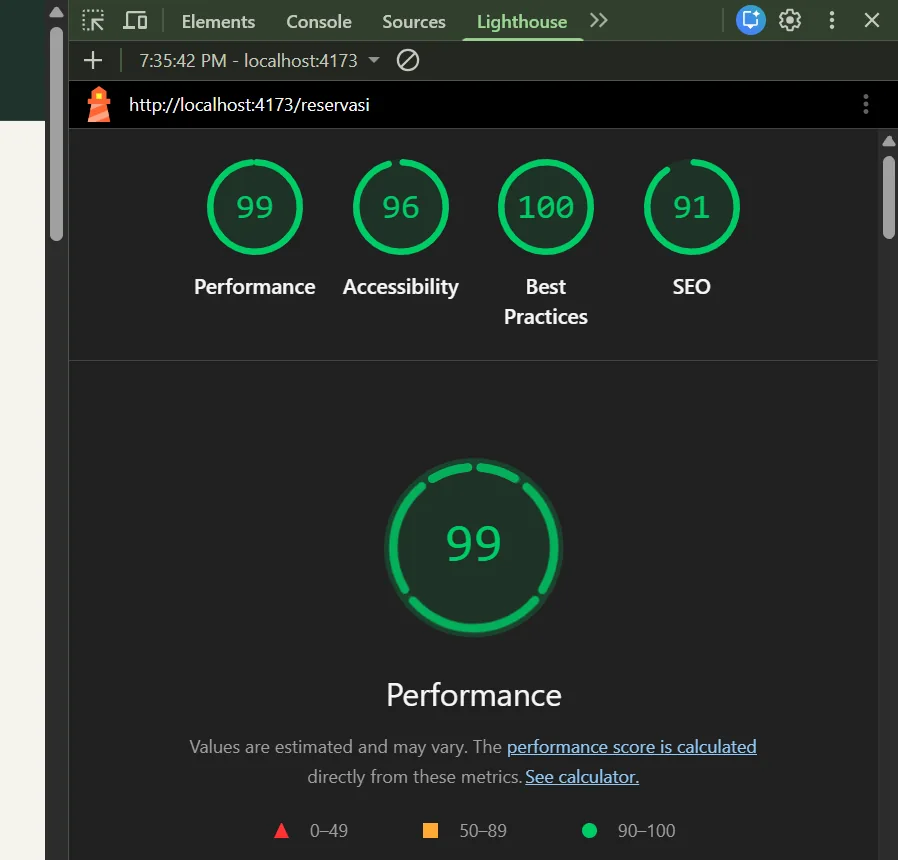
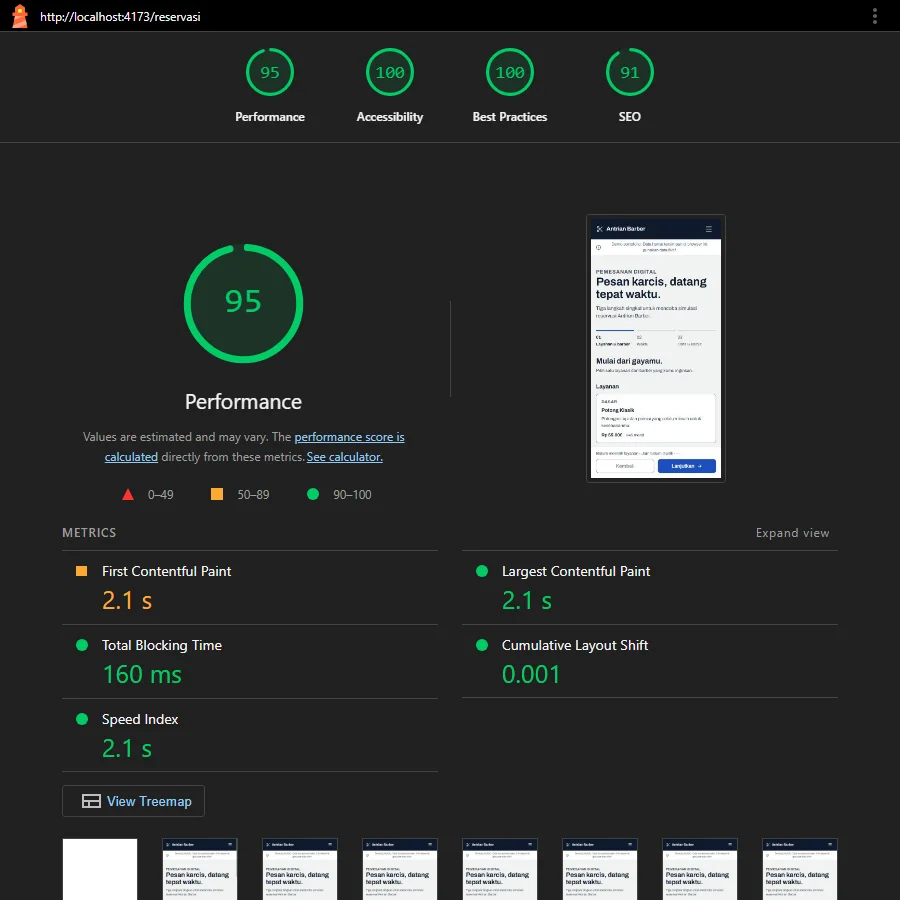
perf: host hero photo locally as webp and re-measure Lighthouse after Sprint 5
The hero photo was loaded from Unsplash, which put mobile LCP at ~4.7 s and
Home mobile Performance at 80. It is now served as 640w/900w webp from
public/images (478 KB -> 50-89 KB) with fetchpriority=high and explicit
dimensions; mobile Performance is 95 (median of 3 runs).

Lighthouse 12.6.1, local production preview, 3 runs per case, medians:
Home desktop 100/100/100/92, mobile 95/100/100/92;
Booking desktop 100/100/100/91, mobile 97/100/100/91.

Update frontend README, case study, QA report, ARCHITECTURE note and
design-system MASTER status, and regenerate the Lighthouse screenshots.

diff --git a/frontend/src/components/Hero.tsx b/frontend/src/components/Hero.tsx
@@ -1,9 +1,9 @@
 import { ArrowDownRight, ArrowUpRight, Star } from 'lucide-react';
 import { useState } from 'react';
 import { Link } from 'react-router';
-const heroPhoto = 'https://images.unsplash.com/photo-1599351431202-1e0f0137899a?auto=format&fit=crop&w=1250&q=85';
+// Foto hero (Unsplash, 1599351431202-1e0f0137899a) disimpan lokal sebagai webp agar tidak bergantung host luar.
 export default function Hero() {
-  const [src, setSrc] = useState(heroPhoto);
+  const [failed, setFailed] = useState(false);
   return <section className="hero-section" id="beranda" aria-labelledby="hero-title">
     <div className="container-shell hero-grid">
       <div className="hero-copy">
@@ -14,7 +14,9 @@ export default function Hero() {
         <div className="hero-caption"><Star size={12} fill="currentColor"/> PROYEK DEMO <span className="hero-separator"/> PENGALAMAN BARBER DIGITAL</div>
       </div>
       <div className="hero-photo-box">
-        <img src={src} alt="Suasana proses merapikan potongan rambut di barbershop" onError={() => setSrc('/images/photo-fallback.svg')}/>
+        {failed
+          ? <img src="/images/photo-fallback.svg" alt="Suasana proses merapikan potongan rambut di barbershop"/>
+          : <img src="/images/hero-900.webp" srcSet="/images/hero-640.webp 640w, /images/hero-900.webp 900w" sizes="(max-width: 760px) 100vw, 50vw" width={900} height={1349} fetchPriority="high" alt="Suasana proses merapikan potongan rambut di barbershop" onError={() => setFailed(true)}/>}
         <div className="hero-photo-overlay"/>
         <div className="photo-footer"><span>01 / KERAJINAN</span><span>TAMPIL LEBIH TAJAM.</span></div>
       </div>

diff --git a/design-system/MASTER.md b/design-system/MASTER.md
@@ -1,6 +1,6 @@
 # Sistem Desain — Antrian Barber (Sprint 5)
 
-**Status: DISETUJUI (arah A "Karcis" dan semua rekomendasi §10). Implementasi berjalan per langkah §8: 5a sampai 5e dikerjakan. Sisa: uji aksesibilitas otomatis (axe) dan Lighthouse ulang, lihat §8 5e.**
+**Status: DISETUJUI (arah A "Karcis" dan semua rekomendasi §10). Implementasi berjalan per langkah §8: 5a sampai 5e dikerjakan. Axe dan Lighthouse ulang sudah selesai (lihat §8 5e).**
 Dokumen ini adalah sumber kebenaran tunggal untuk perombakan UI/UX. Setiap langkah implementasi mengacu ke sini. Bukti audit ada di [`audit/before/`](audit/before/) (10 tangkapan layar + `metrics.json`), dan papan pratinjau visual ada di [`preview.html`](preview.html).
 
 Cakupan: halaman **Booking pelanggan** dan **area staf** (login, antrean, laporan, jadwal), ditambah *shell* bersama (header/footer). Backend tidak berubah.
@@ -350,7 +350,7 @@ Tiap butir diperiksa otomatis atau dengan skrip pengukuran yang sama dengan audi
 | Galat formulir | Inline + ringkasan terfokus; `role=alert` | inline saja, 10–11px |
 | Bahasa | 0 string Inggris di antarmuka pelanggan; 0 istilah teknis | 12+ string Inggris |
 | Token | 0 hex di komponen; 0 `!important` baru; 1 set breakpoint | 262 hex; 2 `!important` |
-| Performa | Font self-host `font-display: swap`; Lighthouse Booking tidak turun dari baseline v2.1e (99/96/100/91) | baseline ada |
+| Performa | Font self-host `font-display: swap`; Lighthouse Booking tidak turun dari baseline v2.1e (99/96/100/91) | hijau: Desktop 100/100/100/91, Mobile 97/100/100/91 (15 Nov 2026) |
 
 ---
 
@@ -364,7 +364,7 @@ Prinsip: setiap langkah kecil, diverifikasi, dan **tes e2e diperbarui di langkah
 | **5b Shell pelanggan** ✅ | Header/Footer, strip demo tipis, bahasa Indonesia, galat manusiawi, `<h1>` | Metrik A6, A7, A8 terpenuhi; e2e navigasi lulus. **Hasil:** A6: tepat satu `<h1>` di 8 rute pelanggan dan urutan judul tanpa lompat (`shell.spec.ts`); halaman yang judul visualnya masih `<h2>` memakai `<h1 class="sr-only">` sebagai jembatan sampai 5c/5e. A7 (shell dan halaman Booking): 0 label Inggris di header, footer, strip, Booking, FAQ, dan 404. A8: galat baca (katalog, barber, jam) kini kalimat Indonesia biasa (misalnya "Tidak dapat terhubung ke server"), detail teknis hanya ke console (`api/loadError.ts`); 0 istilah teknis (PostgreSQL, FastAPI, HTTP, "Failed to fetch") di teks pelanggan. Header, strip 36px, dan footer memakai komponen `ds-`. **Sengaja ditunda:** teks Inggris pada isi Beranda/Hero, Layanan, Barber, Inspirasi, dan Tentang (5e, bersama restyle token); struktur wizard dan banner demo besar di halaman Booking (5c); kosakata "tiket" menjadi "karcis" (5c); lebar kontainer shell mengikuti `container-shell` lama (1180px) sampai 5e menyatukannya ke 1120px. **Verifikasi:** 63 tes Playwright lulus (baseline 19 menjadi 29 dengan 10 tes shell baru, staf 14, UI 12); kontras 32/32; lint 7 (= baseline); kit dev-only tidak ikut build produksi; satu berkas font latin 88 KB diunduh per halaman. |
 | **5c Wizard booking** ✅ | Pecah `Booking.tsx` (A12) menjadi bagian kecil; DayStrip, SlotPicker, BarberChoice, ServiceChoice, karcis langsung + bilah bawah ponsel, ringkasan galat, karcis tercetak | Metrik A4–A6, A9–A11 terpenuhi di 390px dan 1440px; e2e booking diperbarui **dan** lulus; alur demo dan API sama-sama diuji. **Hasil:** wizard 3 langkah (Keputusan 2): Layanan & barber → Waktu → Data & karcis. Bagian baru di `src/components/booking/` (DayStrip, SlotPicker Pagi/Siang/Sore dengan teks "Penuh", ServiceCard, BarberCard, KarcisPanel memakai `Ticket` ds, `booking.css` tanpa hex); `Booking.tsx` tinggal wadah dengan logika demo dan API. Ringkasan galat memuat daftar isian yang bisa difokus; galat memakai `ds-error` dan `Notice`. Satu `<h1>` (sr-only jembatan 5b dihapus). Pengukuran `/reservasi` mode API dan demo pada 390 dan 1440px: 0 teks di bawah 13px, 0 kontrol di bawah 44px, 1 h1, 0 overflow horizontal. E2E: 29 + 2 + 3 + 3 + 14 + 12 lulus (tes booking dan produksi diperbarui ke tiga langkah dan kosakata "karcis"). Kontras 32/32; lint 5 peringatan (sebelumnya 7). **Belum:** animasi karcis tercetak belum dipasang; pemilih barber dan layanan masih `aria-pressed` (bukan `radio`) agar kontrak tes tetap; CSS lama `.wizard-*` dan riwayat (`booking-item`) masih ada dan dibersihkan di 5e; dialog karcis demo lama belum dipindah ke komponen ds; tombol "Batalkan tiket" dan "Lupakan lokal" belum diganti kata.
 | **5d Area staf** ✅ | StaffRail/TabBar, NowPanel, QueueRow, laporan (grafik + tabel pengganti), WeekGrid | Metrik A5, A13, A14 terpenuhi; 13+ e2e staf lulus; bukti "Sekarang" bekerja untuk admin dan barber. **Hasil:** navigasi kiri (rail, ≥960px) dan bilah tab bawah (<960px) menggantikan tiga tombol di kepala halaman (`StaffNav`); `NowPanel` "Sekarang" per barber diturunkan dari antrean yang sudah dimuat (tanpa endpoint baru), tombolnya diberi awalan "Sekarang:" agar tidak bentrok dengan aksi di baris antrean; `QueueRow` memakai `StatusBadge` ds; laporan memakai grafik kolom dengan nilai langsung dan tabel dalam `<details>`, tabel menjadi kartu di ponsel; jadwal memakai tombol 44px. `staff.css` ditulis ulang dengan `var(--…)` saja. Pengukuran (mode API, data mock, 390 dan 1440px, halaman Antrean, Laporan, Jadwal): 0 teks di bawah 13px, 0 kontrol di bawah 44px, 1 h1, 0 overflow horizontal. E2E staf 14/14; seluruh suite lain tetap lulus (29 + 2 + 3 + 3 + 12). Kontras 32/32; lint 5 peringatan. **Belum:** tab status "Perlu dikonfirmasi" (filter) dari wireframe 5.3 belum dibuat, ringkasan status tetap berupa chip; tabel laporan belum bisa diurutkan (`aria-sort`); grafik jam hanya menampilkan jam yang punya reservasi, bukan rentang 08–21; halaman login belum didesain ulang khusus (ikut token lewat `staff.css`); tombol "Keluar" tetap di kepala halaman, belum di dasar rail.
-| **5e Penyelarasan dan QA** ✅ (dengan catatan) | Halaman lain (Beranda, Layanan, Barber, Inspirasi, Tentang, FAQ) ikut token (warna/tipografi, tanpa mengubah tata letak); hapus CSS lama yang sudah tidak dipakai; pengukuran ulang seluruh §7; tangkapan **sesudah** vs **sebelum**; perbarui README dan studi kasus | Semua baris §7 hijau atau ditandai jujur "belum"; 0 CSS yatim. **Hasil:** (1) Warna hex lama (±280 nilai) dipetakan ke token berdasarkan kecerahan dan rona; CSS pelanggan kini 0 nilai mentah. Judul memakai Archivo (`--font-ds`), bukan Georgia. (2) Lencana "EST. AB STUDIO" dan pita slogan dihapus (keputusan 6). (3) Kontras di-audit per elemen pada 8 rute: tiga teks diperbaiki (caption hero, label kartu layanan unggulan, label tim pada gradien); 4 temuan sisa berasal dari monogram di atas gradien yang tidak bisa dibaca audit, dan sudah dicek visual. (4) Kontrol di bawah 44px dinaikkan (tombol layanan, filter galeri, tautan "Pilih barber ini" dan "Coba gaya ini", tautan CTA). (5) CSS yatim: 130+ selector dihapus dengan pemindai berbasis kelas (sumber TS/TSX sebagai acuan, template `team-${tone}` dikenali); file `src/App.css` yang berisi komponen JSX dan tidak dipakai dihapus. (6) Teks Inggris di Beranda, Layanan, Barber, Inspirasi, Tentang diterjemahkan; nama layanan "Potong Klasik", "Potong & Cuci", "Rapikan Jenggot" (tes ikut diperbarui); "Fade" dan "Taper" dipertahankan sebagai istilah barbershop. **Pengukuran sesudah** (`design-system/audit/after/metrics.txt`, 320/390/768/1440px, 8 rute): h1 tepat 1, overflow 0, teks <13px 0, kontrol <44px 0 pada 320–768 dan 390; di 1440 tersisa 1 kategori: tombol "Ambil antrean" di header 40px (mode desktop, diizinkan §4). E2E: 29 + 2 + 3 + 3 + 14 + 12 lulus; kontras token 32/32; lint 5 peringatan. **Axe (keputusan 7):** `@axe-core/playwright` terpasang sebagai devDependency; `npm run e2e:a11y` memindai 7 rute pelanggan dan lulus untuk pelanggaran serius dan kritis (WCAG 2A/2AA). Pelanggaran berdampak sedang dan ringan belum dihitung dalam gerbang ini. **Belum:** (b) Lighthouse belum diukur ulang, baseline v2.1e 99/96/100/91 belum dibandingkan; (c) fokus dan navigasi keyboard di halaman lama belum diukur; (d) halaman login staf belum didesain ulang khusus; (e) tangkapan layar "sesudah" hanya di 1440 dan 390 dan tidak diberi bingkai perbandingan; (f) README dan studi kasus sudah diperbarui (`frontend/README.md`, `frontend/docs/PORTFOLIO_CASE_STUDY.md`); Lighthouse di kedua dokumen tetap angka v2.1e dan diberi catatan. |
+| **5e Penyelarasan dan QA** ✅ (dengan catatan) | Halaman lain (Beranda, Layanan, Barber, Inspirasi, Tentang, FAQ) ikut token (warna/tipografi, tanpa mengubah tata letak); hapus CSS lama yang sudah tidak dipakai; pengukuran ulang seluruh §7; tangkapan **sesudah** vs **sebelum**; perbarui README dan studi kasus | Semua baris §7 hijau atau ditandai jujur "belum"; 0 CSS yatim. **Hasil:** (1) Warna hex lama (±280 nilai) dipetakan ke token berdasarkan kecerahan dan rona; CSS pelanggan kini 0 nilai mentah. Judul memakai Archivo (`--font-ds`), bukan Georgia. (2) Lencana "EST. AB STUDIO" dan pita slogan dihapus (keputusan 6). (3) Kontras di-audit per elemen pada 8 rute: tiga teks diperbaiki (caption hero, label kartu layanan unggulan, label tim pada gradien); 4 temuan sisa berasal dari monogram di atas gradien yang tidak bisa dibaca audit, dan sudah dicek visual. (4) Kontrol di bawah 44px dinaikkan (tombol layanan, filter galeri, tautan "Pilih barber ini" dan "Coba gaya ini", tautan CTA). (5) CSS yatim: 130+ selector dihapus dengan pemindai berbasis kelas (sumber TS/TSX sebagai acuan, template `team-${tone}` dikenali); file `src/App.css` yang berisi komponen JSX dan tidak dipakai dihapus. (6) Teks Inggris di Beranda, Layanan, Barber, Inspirasi, Tentang diterjemahkan; nama layanan "Potong Klasik", "Potong & Cuci", "Rapikan Jenggot" (tes ikut diperbarui); "Fade" dan "Taper" dipertahankan sebagai istilah barbershop. **Pengukuran sesudah** (`design-system/audit/after/metrics.txt`, 320/390/768/1440px, 8 rute): h1 tepat 1, overflow 0, teks <13px 0, kontrol <44px 0 pada 320–768 dan 390; di 1440 tersisa 1 kategori: tombol "Ambil antrean" di header 40px (mode desktop, diizinkan §4). E2E: 29 + 2 + 3 + 3 + 14 + 12 lulus; kontras token 32/32; lint 5 peringatan. **Axe (keputusan 7):** `@axe-core/playwright` terpasang sebagai devDependency; `npm run e2e:a11y` memindai 7 rute pelanggan dan lulus untuk pelanggaran serius dan kritis (WCAG 2A/2AA). Pelanggaran berdampak sedang dan ringan belum dihitung dalam gerbang ini. **Belum:** (b) ~~Lighthouse belum diukur ulang~~ **selesai 15 November 2026** (Lighthouse 12.6.1, build produksi lokal, median 3 jalan; Performance / Accessibility / Best Practices / SEO). Beranda Desktop 100/100/100/92, Mobile 95/100/100/92; Reservasi Desktop 100/100/100/91, Mobile 97/100/100/91. Booking tidak turun dari baseline v2.1e (99/96/100/91). Beranda Mobile sempat 80 (LCP 4,7 detik) karena foto hero dari host eksternal; setelah foto dijadikan webp lokal (`public/images/hero-*.webp`) naik ke 95; (c) fokus dan navigasi keyboard di halaman lama belum diukur; (d) halaman login staf belum didesain ulang khusus; (e) tangkapan layar "sesudah" hanya di 1440 dan 390 dan tidak diberi bingkai perbandingan; (f) README dan studi kasus sudah diperbarui (`frontend/README.md`, `frontend/docs/PORTFOLIO_CASE_STUDY.md`) dengan angka Lighthouse terbaru. |
 
 **Kontrak tes.** Playwright memakai nama aksesibel (grup "Pilih layanan", "Pilih barber", "Jam preferensi"; tombol "Lanjutkan", "Buat Tiket …"; `#wizard-name`, `#wizard-phone`; di staf: label "Username"/"Password", tombol/tautan "Masuk", "Laporan", "Jadwal", `Konfirmasi — {nama}`). Mengganti nama ini adalah perubahan yang disengaja: dicatat per langkah dan dites ulang, bukan dibiarkan merusak 5a.
 
@@ -419,4 +419,4 @@ Jika identitas hijau-emas ingin dipertahankan: pakai semua keputusan struktur di
 
 **Tidak dicakup:** perubahan backend, fitur baru, dark mode, deployment, fotografi baru, internasionalisasi.
 
-**Belum diverifikasi:** fitur font (`tnum`/`lnum`/`wdth`) pada berkas yang akan dibundel; Lighthouse setelah perombakan; pengujian dengan pengguna nyata (belum ada).
+**Belum diverifikasi:** fitur font (`tnum`/`lnum`/`wdth`) pada berkas yang akan dibundel; pengujian dengan pengguna nyata (belum ada).

diff --git a/frontend/docs/PORTFOLIO_CASE_STUDY.md b/frontend/docs/PORTFOLIO_CASE_STUDY.md
@@ -34,17 +34,17 @@ Tahap berikutnya menambahkan backend FastAPI + PostgreSQL. Pelanggan dapat memes
 
 - 10/10 pengujian manual yang dilakukan pengembang lulus.
 - 19/19 Playwright E2E pada Chromium lokal lulus.
-- Lighthouse Beranda: 100 Performance, 95 Accessibility, 100 Best Practices, 92 SEO.
-- Lighthouse Reservasi: 99 Performance, 96 Accessibility, 100 Best Practices, 91 SEO.
+- Lighthouse Beranda (median 3 kali jalan, setelah redesain Karcis): Desktop 100 Performance, 100 Accessibility, 100 Best Practices, 92 SEO; Mobile 95 / 100 / 100 / 92. Performance mobile semula 80 (LCP 4,7 detik) karena foto hero dimuat dari host eksternal; setelah foto dijadikan webp lokal (50–89 KB, dari 478 KB) LCP turun menjadi sekitar 2,6 detik.
+- Lighthouse Reservasi: Desktop 100 / 100 / 100 / 91; Mobile 97 / 100 / 100 / 91.
 
-Angka di atas berasal dari rilis frontend v2.1e. Untuk backend dan area staf (diukur pada mesin pengembang, bukan di CI):
+Pengukuran memakai Lighthouse 12.6.1 pada build produksi lokal (`vite preview`), 15 November 2026. Angka rilis v2.1e sebelumnya (Beranda 100/95/100/92, Reservasi 99/96/100/91) tidak dibandingkan langsung karena mode perangkatnya tidak pernah dipastikan. Untuk backend dan area staf (diukur pada mesin pengembang, bukan di CI):
 
 - 118 tes backend lulus: 104 pada SQLite dan 14 pada PostgreSQL asli (constraint, migrasi bolak-balik, balapan konkurensi).
 - 63 tes Playwright lulus: 29 baseline demo (termasuk shell pelanggan), 14 area staf, 3 build produksi memakai API, 5 dengan API di-mock, dan 12 untuk sistem desain.
 
-Sprint 5 (sistem desain) mengganti tampilan pelanggan dan area staf dengan token dan komponen baru. Pengukuran sesudahnya ada di `design-system/audit/after/metrics.txt`: di 8 rute pelanggan pada lebar 320 sampai 1440px, judul tunggal, tanpa overflow horizontal, dan tanpa teks di bawah 13px. Di layar ponsel dan tablet tidak ada kontrol di bawah 44px; di desktop tersisa satu tombol header 40px yang memang diizinkan untuk pointer halus. Uji aksesibilitas otomatis (axe) sudah terpasang: tujuh rute pelanggan lulus untuk pelanggaran serius dan kritis. Belum dilakukan: Lighthouse ulang, dan pemeriksaan pelanggaran sedang dan ringan.
+Sprint 5 (sistem desain) mengganti tampilan pelanggan dan area staf dengan token dan komponen baru. Pengukuran sesudahnya ada di `design-system/audit/after/metrics.txt`: di 8 rute pelanggan pada lebar 320 sampai 1440px, judul tunggal, tanpa overflow horizontal, dan tanpa teks di bawah 13px. Di layar ponsel dan tablet tidak ada kontrol di bawah 44px; di desktop tersisa satu tombol header 40px yang memang diizinkan untuk pointer halus. Uji aksesibilitas otomatis (axe) sudah terpasang: tujuh rute pelanggan lulus untuk pelanggaran serius dan kritis. Lighthouse sudah diukur ulang (lihat di atas). Belum dilakukan: pemeriksaan pelanggaran axe tingkat sedang dan ringan.
 
-Hasil tersebut tidak menyatakan sudah ada pelanggan nyata atau reservasi produksi. Mode perangkat untuk tiap laporan Lighthouse perlu diperjelas saat bukti tambahan tersedia.
+Hasil tersebut tidak menyatakan sudah ada pelanggan nyata atau reservasi produksi. Skor Lighthouse adalah estimasi laboratorium di mesin pengembang.
 
 ## Pelajaran yang diperoleh
 

diff --git a/frontend/docs/qa/TEST_REPORT.md b/frontend/docs/qa/TEST_REPORT.md
@@ -53,10 +53,12 @@ Pengujian di `http://localhost:4173`, setelah `npm run build` dan `npm run previ
 
 | Halaman | Performance | Accessibility | Best Practices | SEO |
 | --- | ---: | ---: | ---: | ---: |
-| Beranda `/` | **100** | **95** | **100** | **92** |
-| Reservasi `/reservasi` | **99** | **96** | **100** | **91** |
+| Beranda `/` — Desktop | **100** | **100** | **100** | **92** |
+| Beranda `/` — Mobile | **95** | **100** | **100** | **92** |
+| Reservasi `/reservasi` — Desktop | **100** | **100** | **100** | **91** |
+| Reservasi `/reservasi` — Mobile | **97** | **100** | **100** | **91** |
 
-**Batasan laporan:** kedua hasil di atas berasal dari mode perangkat yang berbeda, tetapi hasil per halaman belum diidentifikasi secara pasti sebagai Mobile atau Desktop. Empat kombinasi Beranda/Reservasi × Mobile/Desktop belum seluruhnya dilaporkan sebagai pengujian terpisah. Jangan menyebutnya empat audit.
+**Metode:** pengukuran ulang 15 November 2026 setelah Sprint 5a–5e dan axe; Lighthouse 12.6.1, Chrome sistem headless, 3 kali jalan per kombinasi, nilai median. Beranda diukur ulang setelah foto hero dijadikan webp lokal; sebelumnya Performance Mobile 80 (jalan: 80, 82, 52) dengan LCP sekitar 4,7 detik karena foto dimuat dari host eksternal. Sesudahnya Mobile 95, 95, 94 (LCP 2,5–2,7 detik). Hasil rilis v2.1e (100/95/100/92 dan 99/96/100/91) tidak lagi berlaku; mode perangkatnya tidak pernah dipastikan. Screenshot di bawah adalah satu jalan Mobile dari laporan Lighthouse (Beranda 95, Reservasi 95), jadi bisa sedikit berbeda dari median pada tabel.
 
 Screenshot bukti:
 
@@ -73,7 +75,7 @@ Screenshot bukti:
 
 ## 5. Tahap QA selanjutnya
 
-- Lengkapi hasil Lighthouse Mobile dan Desktop untuk kedua halaman secara terpisah.
+- Ukur Lighthouse pada deployment publik setelah ada hosting.
 - Tambahkan pengujian lintas browser (Firefox/WebKit) dan perangkat nyata.
 - Evaluasi aksesibilitas keyboard dan screen reader secara manual.
 - Jalankan kembali seluruh tes setelah integrasi backend API.

diff --git a/frontend/README.md b/frontend/README.md
@@ -98,10 +98,12 @@ The Playwright configuration starts its own local test server. Do not upload cus
 | --- | --- | --- |
 | Manual user acceptance tests | **10/10 passed** | Developer-performed scenarios, not external-user UAT |
 | Playwright E2E | **63/63 passed** | Local Chromium, 15 November 2026: demo 29, availability 2, bookings 3, production API 3, staff 14, UI kit 12 |
-| Lighthouse — Home | **100 / 95 / 100 / 92** | Performance / Accessibility / Best Practices / SEO. From v2.1e; not re-measured after Sprint 5 |
-| Lighthouse — Booking | **99 / 96 / 100 / 91** | Performance / Accessibility / Best Practices / SEO. From v2.1e; not re-measured after Sprint 5 |
+| Lighthouse — Home, Desktop | **100 / 100 / 100 / 92** | Performance / Accessibility / Best Practices / SEO. Median of 3 runs, Lighthouse 12.6.1, production preview, 15 November 2026 (after Sprint 5 and the local hero image) |
+| Lighthouse — Home, Mobile | **95 / 100 / 100 / 92** | Same setup. Was 80 (LCP ≈ 4.7 s) while the hero photo loaded from an external host; now LCP ≈ 2.6 s with a local webp |
+| Lighthouse — Booking, Desktop | **100 / 100 / 100 / 91** | Same setup |
+| Lighthouse — Booking, Mobile | **97 / 100 / 100 / 91** | Same setup |
 
-The two reported Lighthouse audits used different device modes, but the per-page Mobile/Desktop mapping has not been confirmed. Scores are lab estimates and can change between runs. See the [quality-assurance evidence](docs/qa/TEST_REPORT.md) for scope and limitations.
+These replace the v2.1e figures (Home 100 / 95 / 100 / 92, Booking 99 / 96 / 100 / 91), whose device modes were never confirmed. Scores are lab estimates measured on a developer machine and can change between runs. See the [quality-assurance evidence](docs/qa/TEST_REPORT.md) for scope and limitations.
 
 ## Architecture and project notes
 

diff --git a/docs/ARCHITECTURE.md b/docs/ARCHITECTURE.md
@@ -127,4 +127,4 @@ Tes Playwright memakai mock API yang menulis header CORS sendiri, jadi kecocokan
 - Token staf disimpan di `sessionStorage` (rentan terhadap XSS bila ada celah injeksi).
 - Nomor HP disimpan apa adanya; belum ada penghapusan otomatis. Gunakan data fiktif.
 - Belum ada notifikasi, pembayaran, atau deployment publik; CI belum pernah dijalankan di GitHub.
-- Skor Lighthouse dan hasil UAT berasal dari rilis frontend v2.1e.
+- Skor Lighthouse diukur ulang pada 15 November 2026 (setelah Sprint 5); hasil UAT masih berasal dari rilis frontend v2.1e.
